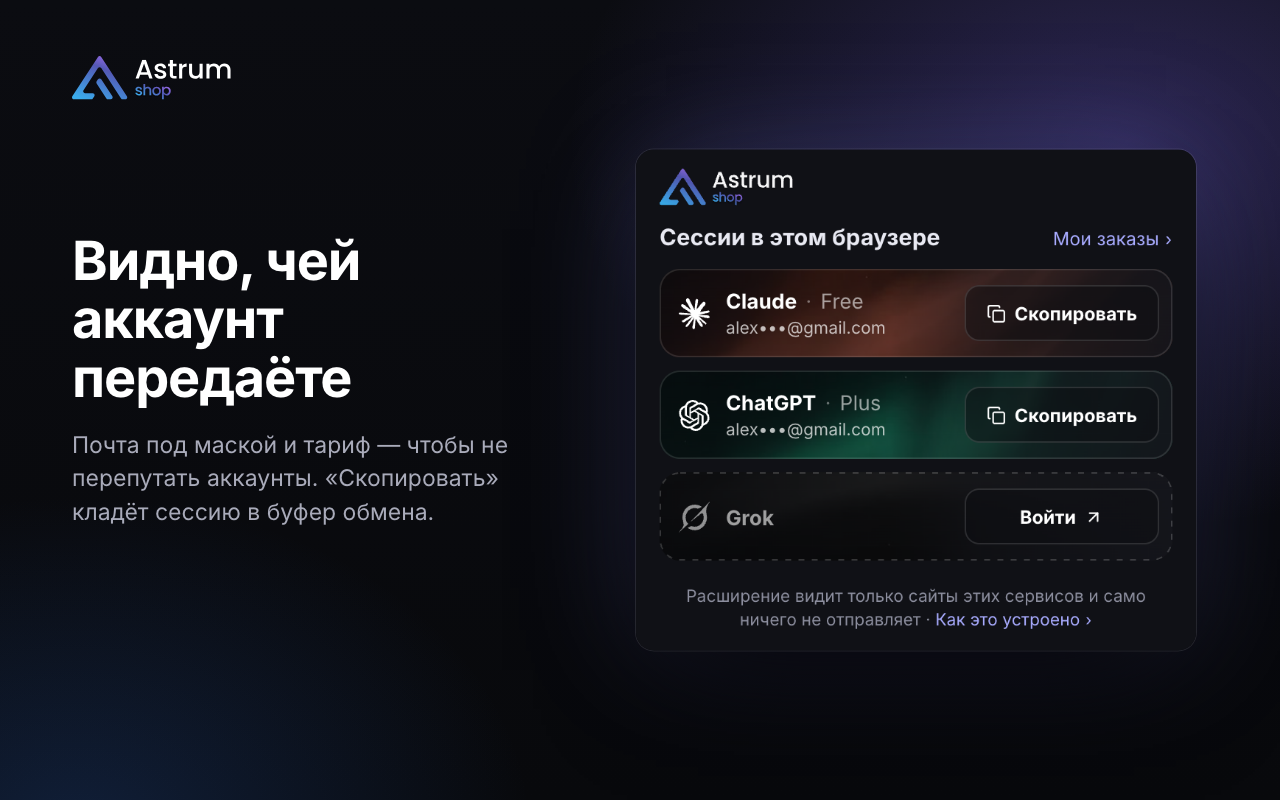
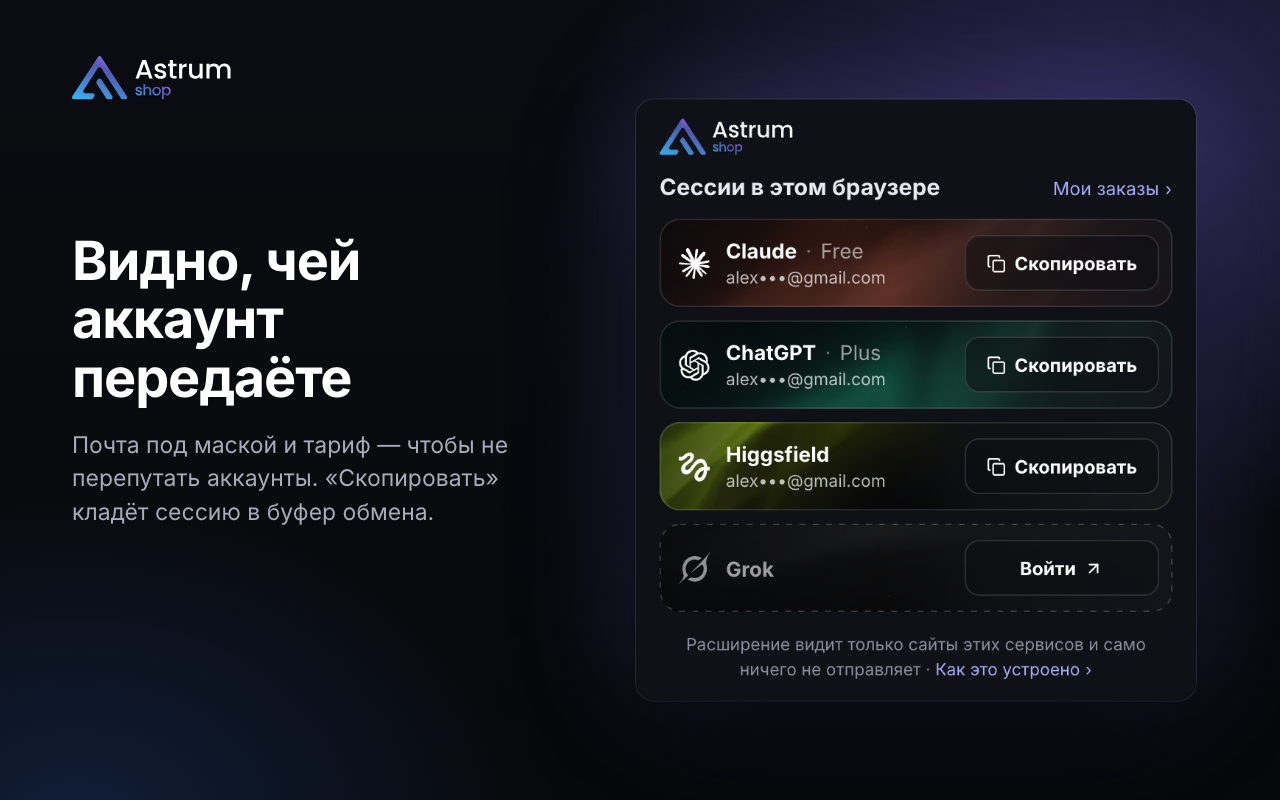
Версия 1.1.0: Higgsfield, новый значок

Changed region(s): [[0.5, 0.125, 0.9375, 0.6562], [0.5312, 0.6875, 0.9062, 0.8438], [0.7812, 0.625, 0.875, 0.6562]]

diff --git a/src/services.js b/src/services.js
@@ -3,7 +3,8 @@
 // ⚠⚠ Новый сервис (Gemini, Higgsfield) — строка здесь, сайт сервиса в `host_permissions` обоих манифестов и фон в
 // `img/`: окно, фон и страница заказа берут всё отсюда, отдельных списков у них нет.
 // ⚠ Где лежит сессия — то же, что страница заказа без расширения просит достать руками:
-// Claude — cookie `sessionKey`, Grok — cookie `sso`, ChatGPT — текст страницы `/api/auth/session` целиком.
+// Claude — cookie `sessionKey`, Grok — cookie `sso`, Higgsfield — cookie `__client`, ChatGPT — текст страницы
+// `/api/auth/session` целиком.
 // ⚠ Формат значения здесь НЕ проверяем: его проверяет форма заказа на сайте — вторая копия правила разъехалась бы
 // с первой.
 // ⚠ Адреса «Войти» и знаки сервисов — те же, что на сайте astrum.shop.
@@ -124,10 +125,28 @@
       tint: ['#5B6B7C', '#161A1F'],
       mark: { vb: "67.7647 67.7647 376.471 376.471", d: "M210.484 312.759L343.465 210.383C349.984 205.364 359.302 207.322 362.408 215.117C378.758 256.231 371.454 305.64 338.925 339.563C306.397 373.487 261.137 380.927 219.768 363.983L174.577 385.803C239.394 432.008 318.104 420.581 367.289 369.251C406.303 328.564 418.386 273.104 407.088 223.091L407.19 223.198C390.807 149.726 411.218 120.359 453.03 60.3072C454.02 58.8833 455.01 57.4595 456 56L400.978 113.382V113.204L210.45 312.794M183.042 337.641C136.519 291.294 144.54 219.567 184.236 178.203C213.59 147.59 261.683 135.096 303.666 153.464L348.755 131.75C340.632 125.627 330.221 119.042 318.275 114.414C264.277 91.2407 199.63 102.774 155.735 148.516C113.513 192.549 100.236 260.254 123.036 318.027C140.069 361.206 112.148 391.748 84.0229 422.575C74.0561 433.503 64.0553 444.431 56 456L183.007 337.677 " },
     },
+    higgsfield: {
+      title: 'Higgsfield',
+      login: 'https://higgsfield.ai/auth/sign-in',
+      // Сессия — cookie `__client`. ⚠ Сервис кладёт её не на весь сайт, а только на адреса входа (`Path=/_clerk`):
+      // по корню сайта браузер её не отдаёт, поэтому адрес здесь — адрес входа, а не `https://higgsfield.ai`.
+      // Она остаётся в браузере и после выхода из аккаунта, поэтому выход сервис отмечает отдельно: cookie
+      // `__client_uat` со значением `0`. Отметки нет вовсе — судим по самой сессии.
+      session: { type: 'cookie', url: 'https://higgsfield.ai/_clerk/v1/client', name: '__client', signedOut: { name: '__client_uat', value: '0' } },
+      // Почта — в ответе о текущем входе (`response.sessions[0].user.email_addresses[0].email_address`).
+      account: {
+        type: 'json',
+        url: 'https://higgsfield.ai/_clerk/v1/client',
+        path: ['response', 'sessions', 0, 'user', 'email_addresses', 0, 'email_address'],
+      },
+      // Тариф сервис отдаёт только по отдельному ключу доступа — не читаем: чипа тарифа у Higgsfield нет.
+      tint: ['#D1FE17', '#5C7300'],
+      mark: { vb: "0 0 20 20", d: "M18.3498 9.83713L18.3339 9.65759C18.1831 7.93447 17.0963 4.69261 14.0816 4.69261C11.8445 4.69261 10.1545 6.97097 8.66311 8.97967C7.47302 10.5883 6.4419 11.9683 5.3073 11.9683C5.00574 11.9357 4.61708 11.7805 4.3792 11.4294C4.16497 11.1108 4.10948 10.7026 4.22046 10.2126C4.39489 9.43684 5.39463 8.7182 6.44963 7.95063C7.02864 7.54238 7.6238 7.10955 8.03634 6.69311C9.22643 5.5091 9.82932 4.65164 9.82932 3.2717C9.82932 1.89176 9.09157 1.20565 8.47276 0.911636C7.23514 0.323844 5.41851 0.666781 4.26026 1.69583C4.08583 1.85922 3.91117 2.01418 3.75243 2.16119C2.58622 3.23097 1.80094 3.95781 0 3.40232V5.63972C2.38791 6.72588 4.39512 4.65164 5.15675 3.69633C5.74372 3.06758 6.36253 2.70006 6.82283 2.70006H6.84671C7.05298 2.70825 7.22741 2.78995 7.35454 2.93696C7.56081 3.18204 7.64018 3.46786 7.60038 3.78622C7.51305 4.45594 6.83875 5.23967 5.60113 6.09713C4.14928 7.10159 1.7218 8.78374 1.53122 10.8987C1.3884 12.4177 2.15003 13.9365 3.34012 14.5243C6.11669 15.8798 7.80665 13.5444 9.5994 11.0783C10.9719 9.1756 12.273 7.37103 14.0818 7.37103C15.7081 7.37103 16.311 8.75916 16.311 9.63301V9.80459L16.1523 9.83713C12.2095 10.5558 10.0595 14.3611 10.0595 16.1167C10.0595 17.8724 11.5034 19.375 13.2804 19.375C15.359 19.375 17.9293 17.5458 18.3419 12.4013L18.3578 12.2136H20V9.83737H18.3498V9.83713ZM16.1998 12.4746C15.8826 15.5531 14.3513 16.9904 13.4232 16.9904C13.0027 16.9904 12.4158 16.631 12.4158 15.9615C12.4158 15.2104 13.5026 12.932 15.946 12.2543L16.2316 12.1808L16.1998 12.4748V12.4746Z" },
+    },
   }
 
   /** Порядок показа в списке окна. */
-  const ORDER = ['claude', 'chatgpt', 'grok']
+  const ORDER = ['claude', 'chatgpt', 'grok', 'higgsfield']
 
   /**
    * Чья это cookie сессии: сервис, у которого изменение cookie `name` на сайте `domain` значит «вошёл / вышел», или
@@ -139,7 +158,11 @@
       const session = SERVICES[id].session
       const host = new URL(session.url).hostname
       if (bare !== host && !bare.endsWith('.' + host)) continue
-      const hit = session.type === 'cookie' ? name === session.name : String(name || '').includes(session.watch)
+      // У сервиса с отметкой выхода (`signedOut`) перемена этой отметки — тоже «вошёл / вышел».
+      const hit =
+        session.type === 'cookie'
+          ? name === session.name || Boolean(session.signedOut && name === session.signedOut.name)
+          : String(name || '').includes(session.watch)
       if (hit) return id
     }
     return null

diff --git a/src/reader.js b/src/reader.js
@@ -71,7 +71,19 @@
           return UNKNOWN
         }
         const value = cookie && typeof cookie.value === 'string' ? cookie.value.trim() : ''
-        return value ? { state: 'in', value } : OUT
+        if (!value) return OUT
+        // Сессия на месте, а сервис отметил выход (cookie-отметка с известным значением) — не вошли: такая сессия
+        // уже не работает. Отметку прочитать не вышло или её нет — судим по самой сессии.
+        const mark = spec.session.signedOut
+        if (mark) {
+          try {
+            const flag = await cookies.get({ url: spec.session.url, name: mark.name })
+            if (flag && typeof flag.value === 'string' && flag.value.trim() === mark.value) return OUT
+          } catch {
+            /* отметка не прочиталась — остаёмся при сессии */
+          }
+        }
+        return { state: 'in', value }
       }
       // Страница сессии: вошедшему — JSON с признаком входа, невошедшему — JSON без него. Всё прочее (сбой сети,
       // не JSON, отказ) — «не знаем».

diff --git a/src/protocol.js b/src/protocol.js
@@ -33,7 +33,7 @@
    */
   const MARKER_ATTR = 'data-astrum-ext'
 
-  const SERVICE_IDS = ['claude', 'chatgpt', 'grok']
+  const SERVICE_IDS = ['claude', 'chatgpt', 'grok', 'higgsfield']
 
   /** Этап заказа, как его называет страница: ждёт сессию · сессия уже в форме · активация идёт. */
   const STAGES = ['need', 'have', 'running']

diff --git a/store/listing.md b/store/listing.md
@@ -16,12 +16,14 @@
 | Поле | Что вписать |
 | --- | --- |
 | Название | из манифеста: `astrum.shop` |
-| Краткое описание | из манифеста: «Передаёт сессию Claude, ChatGPT или Grok в ваш заказ на astrum.shop — только по вашему нажатию.» |
+| Краткое описание | из манифеста: «Передаёт сессию Claude, ChatGPT, Grok или Higgsfield в ваш заказ на astrum.shop — только по вашему нажатию.» |
 | Язык | русский |
 | Категория | Инструменты (Tools) |
 | Значок 128×128 | из архива (`icons/icon-128.png`) |
 | Снимки 1280×800 | `screens/screen-1.png` … `screen-5.png`, в этом порядке |
 | Малая промо-плитка 440×280 | `screens/promo-440x280.png` |
+| Большая промо-плитка 1400×560 (по желанию) | `screens/promo-1400x560.png` |
+| Проморолик | не нужен |
 | Сайт (Homepage URL) | https://github.com/astrum-solutions/astrum.shop.extension |
 | Поддержка (Support URL) | https://astrum.shop |
 | Контент для взрослых | нет |
@@ -29,14 +31,14 @@
 ### Подробное описание
 
 ```text
-Расширение магазина astrum.shop передаёт сессию Claude, ChatGPT или Grok в ваш заказ на сайте astrum.shop — одним нажатием, без поиска cookie в настройках браузера.
+Расширение магазина astrum.shop передаёт сессию Claude, ChatGPT, Grok или Higgsfield в ваш заказ на сайте astrum.shop — одним нажатием, без поиска cookie в настройках браузера.
 
 ДЛЯ ЧЕГО
 Вы купили на astrum.shop подписку на нейросеть с активацией на вашем аккаунте. Чтобы её включить, магазину нужна сессия — уже выполненный вход в сервис. Пароль при этом не нужен, и расширение его не видит.
 
 КАК ЭТО РАБОТАЕТ
 1. Откройте свой заказ на astrum.shop.
-2. Войдите в Claude, ChatGPT или Grok в этом же браузере — если ещё не вошли.
+2. Войдите в Claude, ChatGPT, Grok или Higgsfield в этом же браузере — если ещё не вошли.
 3. Нажмите «Передать сессию» — на странице заказа или в окне расширения.
 4. Нажмите «Включить» на странице заказа.
 
@@ -45,7 +47,7 @@
 ЧТО РАСШИРЕНИЕ ДЕЛАЕТ С ДАННЫМИ
 • Сессия уходит только по вашему нажатию и только в ваш заказ на astrum.shop.
 • Расширение ничего не хранит и ничего не отправляет другим сайтам. Своего сервера у него нет.
-• Оно работает только на сайтах claude.ai, chatgpt.com, grok.com и astrum.shop. Другие сайты, историю браузера и пароли не видит.
+• Оно работает только на сайтах claude.ai, chatgpt.com, grok.com, higgsfield.ai и astrum.shop. Другие сайты, историю браузера и пароли не видит.
 • В нём нет рекламы и счётчиков.
 • Сессия нужна только чтобы включить оплаченную подписку; после активации она удаляется.
 
@@ -55,7 +57,7 @@
 Расширение — часть магазина astrum.shop. Оно не является продуктом Anthropic, OpenAI или xAI и не связано с ними.
 
 IN ENGLISH
-The astrum.shop extension lets a customer of the astrum.shop store pass the sign-in session of their own Claude, ChatGPT or Grok account into their own order on astrum.shop with one click, so the store can activate the subscription they paid for. The session is passed only when you click, only to your order page; the extension stores nothing and has no server of its own. Open source: https://github.com/astrum-solutions/astrum.shop.extension
+The astrum.shop extension lets a customer of the astrum.shop store pass the sign-in session of their own Claude, ChatGPT, Grok or Higgsfield account into their own order on astrum.shop with one click, so the store can activate the subscription they paid for. The session is passed only when you click, only to your order page; the extension stores nothing and has no server of its own. Open source: https://github.com/astrum-solutions/astrum.shop.extension
 ```
 
 ### Снимки
@@ -82,13 +84,13 @@ The astrum.shop extension lets a customer of the astrum.shop store pass the sign
 ### Единственное назначение (Single purpose)
 
 ```text
-The extension lets a customer of the astrum.shop store pass the sign-in session of their own Claude, ChatGPT or Grok account into their own order on astrum.shop with one click. The store uses the session only to activate the subscription the customer has paid for on that account. Nothing is read from other sites, nothing is stored, and the session is passed only when the user clicks «Передать сессию» (Pass the session) or «Скопировать» (Copy). The source code is open: https://github.com/astrum-solutions/astrum.shop.extension
+The extension lets a customer of the astrum.shop store pass the sign-in session of their own Claude, ChatGPT, Grok or Higgsfield account into their own order on astrum.shop with one click. The store uses the session only to activate the subscription the customer has paid for on that account. Nothing is read from other sites, nothing is stored, and the session is passed only when the user clicks «Передать сессию» (Pass the session) or «Скопировать» (Copy). The source code is open: https://github.com/astrum-solutions/astrum.shop.extension
 ```
 
 ### Обоснование доступа `cookies`
 
 ```text
-1) To know whether the user is signed in to claude.ai, chatgpt.com or grok.com, so that the popup and the order page show the right state and the right button. 2) To read the session cookie of claude.ai (sessionKey) and grok.com (sso) at the moment the user clicks «Передать сессию» (Pass the session) or «Скопировать» (Copy). cookies.onChanged is used only to refresh the signed-in state when the user signs in or out. Cookies of any other site are not accessible to the extension.
+1) To know whether the user is signed in to claude.ai, chatgpt.com, grok.com or higgsfield.ai, so that the popup and the order page show the right state and the right button. 2) To read the session cookie of claude.ai (sessionKey), grok.com (sso) and higgsfield.ai (__client) at the moment the user clicks «Передать сессию» (Pass the session) or «Скопировать» (Copy). cookies.onChanged is used only to refresh the signed-in state when the user signs in or out. Cookies of any other site are not accessible to the extension.
 ```
 
 ### Обоснование доступа `scripting`
@@ -100,7 +102,7 @@ Used only in runtime.onInstalled (install and update) to inject the extension's 
 ### Обоснование доступа к сайтам (Host permissions)
 
 ```text
-claude.ai, chatgpt.com, grok.com are the three services whose subscriptions the store activates. The extension requests the user's own account e-mail and plan name from the service — they are shown to the user in the popup (the e-mail only in masked form) so that the user can see which account's session they are passing — and, for ChatGPT, reads the session from the service's session endpoint when the user clicks. astrum.shop is the store's own site: the content script runs only there, tells the popup which order is open and which service's session it is waiting for, and puts the session into the order form when the user clicks. No wildcard hosts and no other sites are requested.
+claude.ai, chatgpt.com, grok.com and higgsfield.ai are the four services whose subscriptions the store activates. The extension requests the user's own account e-mail and plan name from the service — they are shown to the user in the popup (the e-mail only in masked form) so that the user can see which account's session they are passing — and, for ChatGPT, reads the session from the service's session endpoint when the user clicks. astrum.shop is the store's own site: the content script runs only there, tells the popup which order is open and which service's session it is waiting for, and puts the session into the order form when the user clicks. No wildcard hosts and no other sites are requested.
 ```
 
 ### Удалённый код (Remote code)
@@ -141,7 +143,7 @@ https://github.com/astrum-solutions/astrum.shop.extension/blob/main/PRIVACY.md
 Второй абзац — только если для проверяющих заведён пробный заказ: вместо `<ссылка>` — его адрес.
 
 ```text
-Without an order: click the extension icon. The popup lists Claude, ChatGPT and Grok and shows whether you are signed in to each of them in this browser. For a signed-in service «Скопировать» (Copy) puts the session on the clipboard; for the others «Войти» (Sign in) opens the service's sign-in page.
+Without an order: click the extension icon. The popup lists Claude, ChatGPT, Grok and Higgsfield and shows whether you are signed in to each of them in this browser. For a signed-in service «Скопировать» (Copy) puts the session on the clipboard; for the others «Войти» (Sign in) opens the service's sign-in page.
 
 With an order (a demo order, nothing is charged): <ссылка>. Sign in to claude.ai in the same browser, open the link and click «Передать сессию Claude» (Pass the Claude session). The session is placed into the order form and the tile shows the masked account e-mail. You do not need to press «Включить» (Activate).
 ```

diff --git a/PRIVACY.md b/PRIVACY.md
@@ -2,18 +2,18 @@
 
 Последнее изменение: 11 ноября 2026 · [English version](#english-version)
 
-**Коротко.** Расширение передаёт сессию Claude, ChatGPT или Grok в ваш заказ на [astrum.shop](https://astrum.shop) —
+**Коротко.** Расширение передаёт сессию Claude, ChatGPT, Grok или Higgsfield в ваш заказ на [astrum.shop](https://astrum.shop) —
 только по вашему нажатию. Оно ничего не хранит, своего сервера у него нет, рекламы и счётчиков в нём нет.
 
 ### 1. Зачем нужно расширение
 
-1.1. Расширение astrum.shop для браузера передаёт сессию Claude, ChatGPT или Grok в ваш заказ на сайте astrum.shop — чтобы мы включили оплаченную подписку на вашем аккаунте. Сессия — это уже выполненный вход в сервис. Пароль расширение не видит и не спрашивает.
+1.1. Расширение astrum.shop для браузера передаёт сессию Claude, ChatGPT, Grok или Higgsfield в ваш заказ на сайте astrum.shop — чтобы мы включили оплаченную подписку на вашем аккаунте. Сессия — это уже выполненный вход в сервис. Пароль расширение не видит и не спрашивает.
 
 1.2. Другого назначения у расширения нет. В нём нет рекламы, счётчиков посещений и стороннего кода; код из сети оно не загружает. Код расширения открыт и лежит в этом репозитории.
 
 ### 2. Что расширение видит
 
-2.1. Расширение работает только на сайтах claude.ai, chatgpt.com, grok.com и astrum.shop. На сайтах сервисов оно видит только то, что относится к вашему входу:
+2.1. Расширение работает только на сайтах claude.ai, chatgpt.com, grok.com, higgsfield.ai и astrum.shop. На сайтах сервисов оно видит только то, что относится к вашему входу:
 
 - вошли ли вы в сервис в этом браузере;
 - адрес электронной почты и тариф аккаунта — чтобы вы видели, сессию какого аккаунта передаёте. Почту расширение показывает и помнит только в скрытом виде, например alex•••@gmail.com;
@@ -53,8 +53,8 @@
 
 6.1. Расширение просит у браузера только то, без чего не может работать:
 
-- «Файлы cookie» (cookies) — узнать, вошли ли вы в сервис, и прочитать сессию Claude и Grok;
-- доступ к сайтам claude.ai, chatgpt.com и grok.com — узнать почту и тариф аккаунта и прочитать сессию ChatGPT;
+- «Файлы cookie» (cookies) — узнать, вошли ли вы в сервис, и прочитать сессию Claude, Grok и Higgsfield;
+- доступ к сайтам claude.ai, chatgpt.com, grok.com и higgsfield.ai — узнать почту и тариф аккаунта и прочитать сессию ChatGPT;
 - доступ к сайту astrum.shop и «Скрипты» (scripting) — связать расширение со страницей вашего заказа, в том числе во вкладке, которая уже была открыта при установке.
 
 ### 7. Как отозвать доступ
@@ -75,19 +75,19 @@
 
 ## English version
 
-**In short.** The extension passes your Claude, ChatGPT or Grok session into your order on
+**In short.** The extension passes your Claude, ChatGPT, Grok or Higgsfield session into your order on
 [astrum.shop](https://astrum.shop) — only when you click. It stores nothing, has no server of its own, and contains no
 ads or analytics.
 
 ### 1. What the extension is for
 
-1.1. The astrum.shop browser extension passes your Claude, ChatGPT or Grok session into your order on astrum.shop, so that we can activate the subscription you paid for on your own account. A session is a sign-in you have already completed. The extension never sees or asks for your password.
+1.1. The astrum.shop browser extension passes your Claude, ChatGPT, Grok or Higgsfield session into your order on astrum.shop, so that we can activate the subscription you paid for on your own account. A session is a sign-in you have already completed. The extension never sees or asks for your password.
 
 1.2. The extension has no other purpose. It contains no ads, no analytics and no third-party code, and it does not load code from the network. Its source code is open and lives in this repository.
 
 ### 2. What the extension reads
 
-2.1. The extension works only on claude.ai, chatgpt.com, grok.com and astrum.shop. On the service sites it reads only what relates to your sign-in:
+2.1. The extension works only on claude.ai, chatgpt.com, grok.com, higgsfield.ai and astrum.shop. On the service sites it reads only what relates to your sign-in:
 
 - whether you are signed in to the service in this browser;
 - the e-mail address and plan of the account — so that you can see which account's session you are about to pass. The e-mail is shown and kept only in masked form, for example alex•••@gmail.com;
@@ -127,8 +127,8 @@ ads or analytics.
 
 6.1. The extension asks the browser only for what it cannot work without:
 
-- cookies — to learn whether you are signed in and to read the Claude and Grok session;
-- access to claude.ai, chatgpt.com and grok.com — to learn the account e-mail and plan and to read the ChatGPT session;
+- cookies — to learn whether you are signed in and to read the Claude, Grok and Higgsfield session;
+- access to claude.ai, chatgpt.com, grok.com and higgsfield.ai — to learn the account e-mail and plan and to read the ChatGPT session;
 - access to astrum.shop and scripting — to connect the extension to your order page, including a tab that was already open when the extension was installed.
 
 ### 7. How to revoke access

diff --git a/README.md b/README.md
@@ -1,6 +1,6 @@
 # Расширение astrum.shop
 
-Передаёт сессию Claude, ChatGPT или Grok в ваш заказ на [astrum.shop](https://astrum.shop) — одним нажатием, без
+Передаёт сессию Claude, ChatGPT, Grok или Higgsfield в ваш заказ на [astrum.shop](https://astrum.shop) — одним нажатием, без
 поиска cookie в настройках браузера.
 
 [In English](#in-english) · [Что расширение видит](PRIVACY.md) · [Лицензия MIT](LICENSE)
@@ -9,7 +9,7 @@
 
 ## Зачем
 
-[astrum.shop](https://astrum.shop) — подписки на ChatGPT, Claude и Grok с активацией на вашем аккаунте; оплата картой,
+[astrum.shop](https://astrum.shop) — подписки на ChatGPT, Claude, Grok и Higgsfield с активацией на вашем аккаунте; оплата картой,
 СБП или USDT. Чтобы включить оплаченную подписку, магазину нужна **сессия** — уже выполненный вход в сервис. Пароль
 не нужен, и расширение его не видит.
 
@@ -19,7 +19,7 @@
 ## Как это работает
 
 1. Откройте свой заказ на astrum.shop.
-2. Войдите в Claude, ChatGPT или Grok в этом же браузере — если ещё не вошли.
+2. Войдите в Claude, ChatGPT, Grok или Higgsfield в этом же браузере — если ещё не вошли.
 3. Нажмите «Передать сессию» — на странице заказа или в окне расширения.
 4. Нажмите «Включить» на странице заказа.
 
@@ -35,7 +35,7 @@
 - Сессия уходит **только по вашему нажатию** и только на страницу вашего заказа на astrum.shop. Сайт сам запросить её
   не может.
 - Расширение **ничего не хранит** и ничего не отправляет другим сайтам. Своего сервера у него нет.
-- Оно работает только на `claude.ai`, `chatgpt.com`, `grok.com` и `astrum.shop`. Другие сайты, историю браузера и
+- Оно работает только на `claude.ai`, `chatgpt.com`, `grok.com`, `higgsfield.ai` и `astrum.shop`. Другие сайты, историю браузера и
   пароли не видит.
 - В нём нет рекламы, счётчиков и кода, который загружается из сети.
 
@@ -45,8 +45,8 @@
 
 | Доступ | Зачем |
 | --- | --- |
-| `cookies` | узнать, вошли ли вы в сервис, и прочитать сессию Claude и Grok |
-| сайты `claude.ai`, `chatgpt.com`, `grok.com` | узнать почту и тариф аккаунта и прочитать сессию ChatGPT |
+| `cookies` | узнать, вошли ли вы в сервис, и прочитать сессию Claude, Grok и Higgsfield |
+| сайты `claude.ai`, `chatgpt.com`, `grok.com`, `higgsfield.ai` | узнать почту и тариф аккаунта и прочитать сессию ChatGPT |
 | сайт `astrum.shop` и `scripting` | связать расширение со страницей вашего заказа, в том числе во вкладке, открытой до установки |
 
 ## Проверьте сами
@@ -99,22 +99,22 @@
 Код — под [лицензией MIT](LICENSE). Название и логотип astrum.shop лицензией не передаются. Шрифт Inter — под
 лицензией SIL Open Font License ([`src/fonts/OFL.txt`](src/fonts/OFL.txt)).
 
-Claude, ChatGPT и Grok — товарные знаки их владельцев. Расширение — часть магазина astrum.shop; оно не является
+Claude, ChatGPT, Grok и Higgsfield — товарные знаки их владельцев. Расширение — часть магазина astrum.shop; оно не является
 продуктом Anthropic, OpenAI или xAI и не связано с ними.
 
 ## In English
 
 The astrum.shop extension lets a customer of the [astrum.shop](https://astrum.shop) store pass the sign-in session of
-their own Claude, ChatGPT or Grok account into their own order with one click, so the store can activate the
+their own Claude, ChatGPT, Grok or Higgsfield account into their own order with one click, so the store can activate the
 subscription they paid for on that account.
 
 - The session is passed **only when you click**, and only to your order page on astrum.shop. The site cannot request it.
 - The extension **stores nothing** and sends nothing to any other site. It has no server of its own.
-- It works only on `claude.ai`, `chatgpt.com`, `grok.com` and `astrum.shop`.
+- It works only on `claude.ai`, `chatgpt.com`, `grok.com`, `higgsfield.ai` and `astrum.shop`.
 - No ads, no analytics, no remote code.
 
 Details: [PRIVACY.md](PRIVACY.md#english-version). The code in [`src/`](src) is plain scripts with no dependencies and
 no bundler — the same files go to the extension store. Run the tests with `node --test tests/`.
 
-Licensed under [MIT](LICENSE). Claude, ChatGPT and Grok are trademarks of their respective owners; this extension is
+Licensed under [MIT](LICENSE). Claude, ChatGPT, Grok and Higgsfield are trademarks of their respective owners; this extension is
 not affiliated with Anthropic, OpenAI or xAI.
